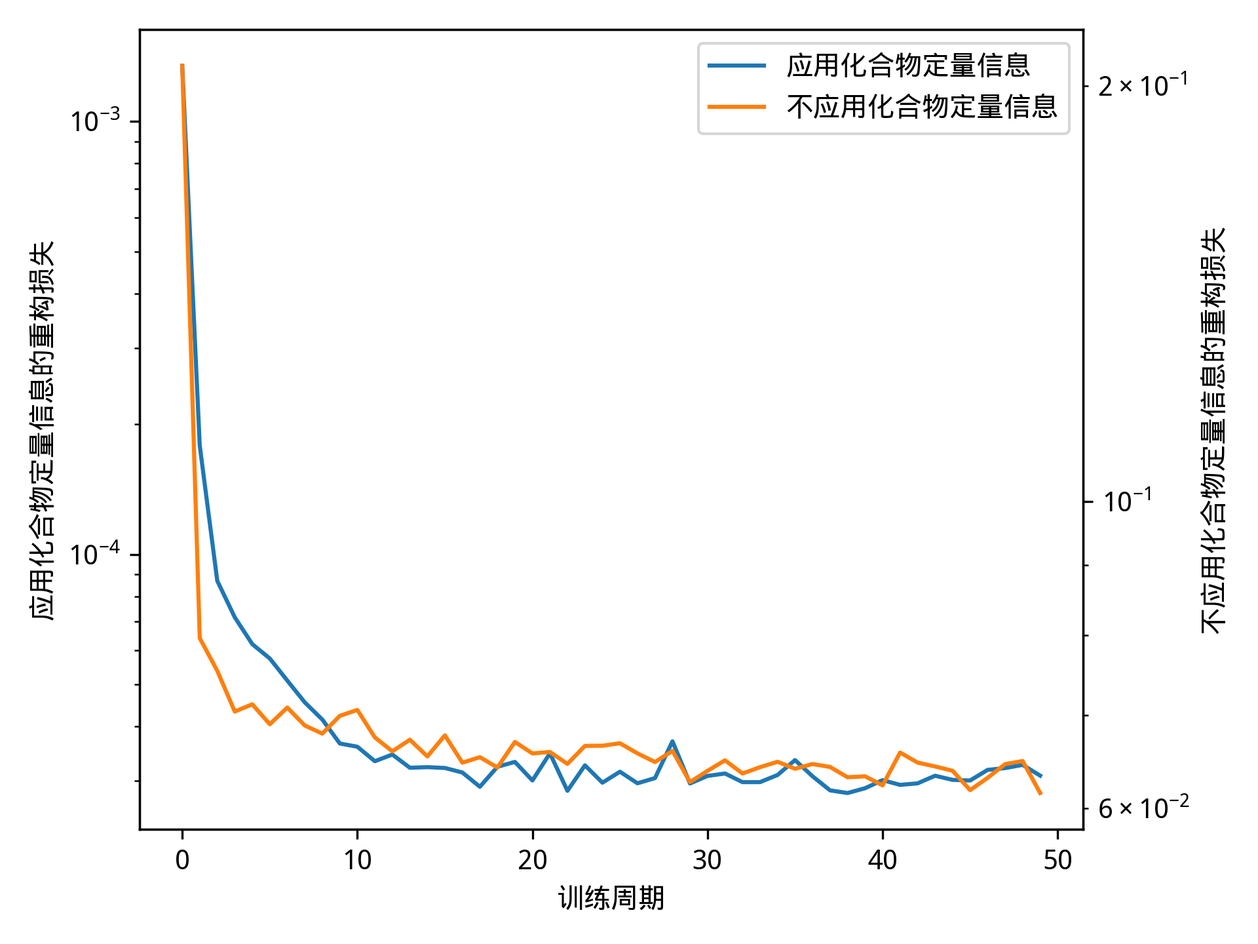
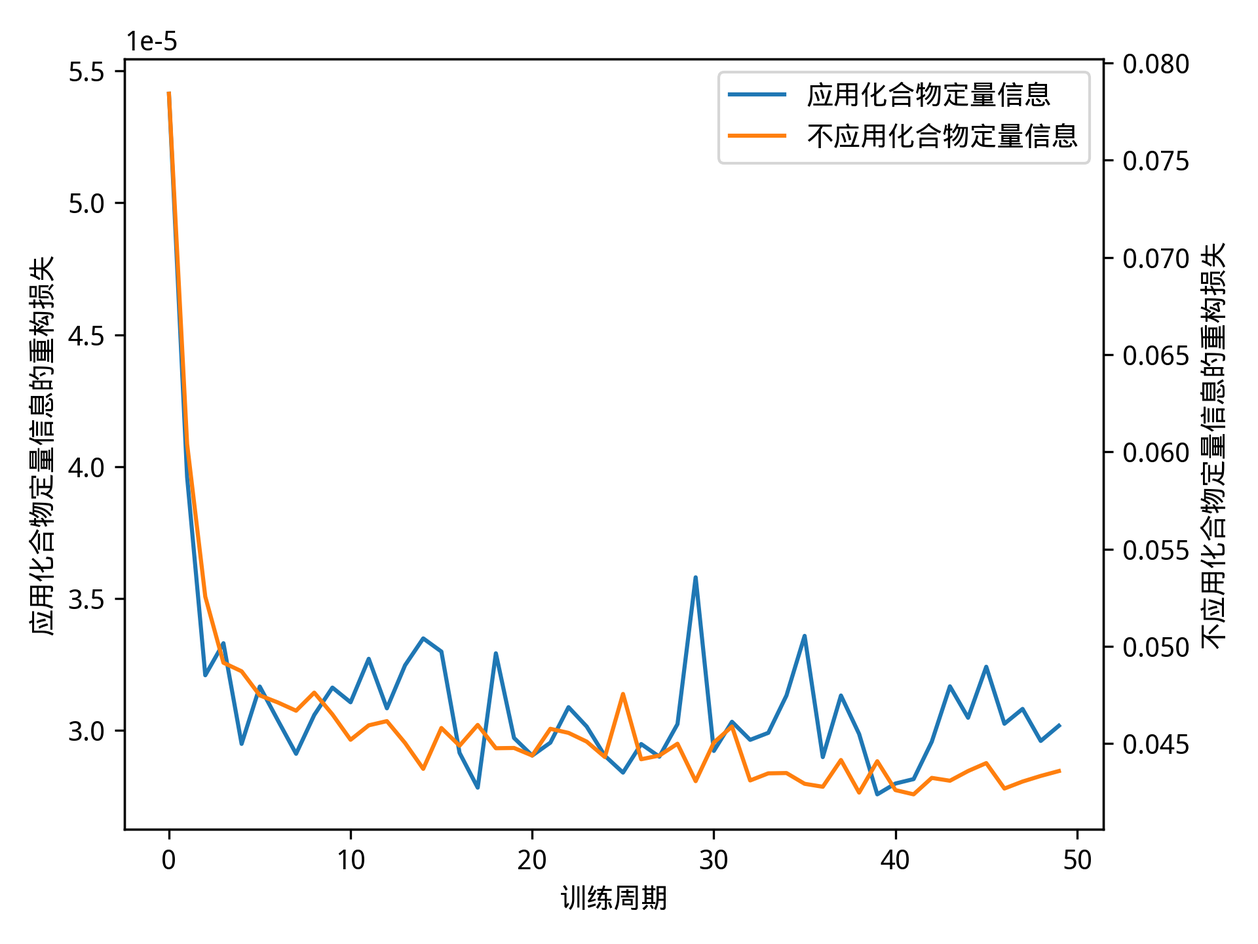
after wby review

diff --git a/data/chap03.tex b/data/chap03.tex
@@ -72,9 +72,11 @@
 
 \section{使用图神经网络的处方效果预测}
 
-如果从处方层面考虑问题，我们可以作出这样的假设：各基因受处方整体的作用等于处方中各药材影响的代数和，来自不同药材或不同化合物的基因影响在混同后是完全等价的。在这种假设下，我们可以直接遍历处方中的每个药材求和，得到每个基因的总表达影响，这样就把一个处方建模成了一系列以基因作为顶点，从化合物含量信息推出的总表达影响为点权重，基因之间的关联为边，STRING分数为边权重的图。利用图神经网络的方法，我们便可以训练模型对处方的效果进行预测，其中设《中国药典》中已经存在的处方为正例，而随机生成的、大概率不会有现实药理作用的处方为负例，便形成了一个通过图特征进行二分类的问题。这事实上是一个正无标签学习问题，我们没有确信的负例，即通过实验验证不存在任何正向药理作用的处方。这种情况下，由于正例是固定的，数量上非常有限，而负例可以通过从药材列表中任意选择，随机赋予定量，几乎无限地生成。相比于构造平衡的处方数据集，如果采样更多负例，即虚拟处方来训练，可能更有利于发现正例特有的特征。但是，这也会使得原有的准确率、召回率无法直接反映处方判别模型性能，需要使用采样、加权的方法克服这些问题。在本研究中，我们采用的是构建均衡样本的方法，但是模型实际调优时依然可以使用不均衡的策略。
+如果从处方层面考虑问题，我们可以作出这样的假设：各基因受处方整体的作用等于处方中各药材影响的代数和，来自不同药材或不同化合物的基因影响在混同后是完全等价的。在这种假设下，我们可以直接遍历处方中的每个药材求和，得到每个基因的总表达影响，这样就把一个处方建模成了一系列以基因作为顶点，从化合物含量信息推出的总表达影响为点权重，基因之间的关联为边，STRING分数为边权重的图。
 
-在实际的训练和预测过程中，图的节点数，即处方中的药材数，会显著影响连接密度和图表示，是重要的特征，但有效处方的实际大小存在显著的区别，其中大小在8及以下的处方出现的频次较多。这一方面和指导处方配伍的中医传统理论有关，另一方面也可能是因为药材的定量信息不足，越大的处方越容易出现缺少药材定量而无法入选有效处方的情况。具体的分布如下：
+然后，利用图神经网络的方法，我们便可以训练模型对处方的效果进行预测，其中设《中国药典》中已经存在的处方为正例，而随机生成的、大概率不会有现实药理作用的处方为负例，便形成了一个通过图特征进行二分类的问题。这事实上是一个正无标签学习问题，我们没有确信的负例，即通过实验验证不存在任何正向药理作用的处方。这种情况下，由于正例是固定的，数量上非常有限，而负例可以通过从药材列表中任意选择，随机赋予定量，几乎无限地生成。相比于构造平衡的处方数据集，如果采样更多负例，即虚拟处方来训练，可能更有利于发现正例特有的特征。但是，这也会使得原有的准确率、召回率无法直接反映处方判别模型性能，需要使用采样、加权的方法克服这些问题。在本研究中，我们采用的是构建均衡样本的方法，但是模型实际调优时依然可以使用不均衡的策略。
+
+在实际的训练和预测过程中，图的节点数，即处方中的药材数，会显著影响连接密度和图表示，是重要的特征，但有效处方的实际大小存在显著的区别，其中大小在8及以下的处方出现的频次较多。这一方面和指导处方配伍的中医传统理论有关，另一方面一个显著的影响因素是药材的定量信息不足，越大的处方越容易出现缺少药材定量而无法入选有效处方的情况。对比不考虑处方完整性的原始处方大小，我们可以发现其中不乏大于20味药材的处方，而不是到16即止，但这些都无法在现有的数据下得到体现。完整、可利用处方具体的大小分布如下：
 
 % 此处存在较多留白，需要补充
 
@@ -136,19 +138,19 @@
 \begin{table}[H]
   \centering
   \resizebox{\textwidth}{!}{%
-    \begin{tabular}{lcccccccccc}
+    \begin{tabular}{lccccccccccc}
       \toprule
-      \multirow{2}{*}{模型} & \multirow{2}{*}{准确率} & \multicolumn{3}{c}{正例} & \multicolumn{3}{c}{负例} & \multicolumn{3}{c}{加权平均}                                           \\
-                          &                      & 精确率                    & 召回率                    & F1                       & 精确率  & 召回率  & F1   & 精确率  & 召回率  & F1   \\
+      \multirow{2}{*}{模型} & \multirow{2}{*}{准确率} & \multirow{2}{*}{AUC} & \multicolumn{3}{c}{正例} & \multicolumn{3}{c}{负例} & \multicolumn{3}{c}{加权平均}                                           \\
+                          &                      &                      & 精确率                     & 召回率                     & F1                        & 精确率  & 召回率  & F1   & 精确率  & 召回率  & F1   \\
       \midrule
-      逻辑回归                & 0.537                & 0.52                   & 0.76                   & 0.62                     & 0.58 & 0.32 & 0.41 & 0.55 & 0.54 & 0.51 \\
-      支持向量机               & 0.549                & 0.53                   & 0.90                   & 0.66                     & 0.68 & 0.21 & 0.32 & 0.60 & 0.55 & 0.49 \\
-      随机森林                & 0.685                & 0.66                   & 0.76                   & 0.71                     & 0.72 & 0.61 & 0.66 & 0.69 & 0.69 & 0.68 \\
-      梯度提升                & 0.654                & 0.62                   & 0.75                   & 0.68                     & 0.70 & 0.56 & 0.62 & 0.66 & 0.65 & 0.65 \\
-      AdaBoost            & 0.537                & 0.53                   & 0.55                   & 0.54                     & 0.54 & 0.52 & 0.53 & 0.54 & 0.54 & 0.54 \\
-      多层感知机               & 0.512                & 0.50                   & 0.70                   & 0.59                     & 0.53 & 0.33 & 0.41 & 0.52 & 0.51 & 0.50 \\
-      朴素贝叶斯               & 0.519                & 0.51                   & 0.94                   & 0.66                     & 0.64 & 0.11 & 0.19 & 0.58 & 0.52 & 0.42 \\
-      K近邻                 & 0.593                & 0.59                   & 0.60                   & 0.59                     & 0.60 & 0.59 & 0.59 & 0.59 & 0.59 & 0.59 \\
+      逻辑回归                & 0.568                & 0.600                & 0.55                    & 0.75                    & 0.63                      & 0.62 & 0.39 & 0.48 & 0.58 & 0.57 & 0.55 \\
+      支持向量机               & 0.562                & 0.371                & 0.53                    & 0.91                    & 0.67                      & 0.72 & 0.22 & 0.34 & 0.63 & 0.56 & 0.50 \\
+      随机森林                & 0.716                & 0.725                & 0.69                    & 0.78                    & 0.73                      & 0.75 & 0.66 & 0.70 & 0.72 & 0.72 & 0.72 \\
+      梯度提升                & 0.654                & 0.710                & 0.65                    & 0.64                    & 0.65                      & 0.65 & 0.67 & 0.66 & 0.65 & 0.65 & 0.65 \\
+      AdaBoost            & 0.586                & 0.585                & 0.63                    & 0.40                    & 0.49                      & 0.57 & 0.77 & 0.65 & 0.60 & 0.58 & 0.57 \\
+      多层感知机               & 0.531                & 0.511                & 0.51                    & 0.89                    & 0.65                      & 0.62 & 0.18 & 0.28 & 0.57 & 0.54 & 0.47 \\
+      朴素贝叶斯               & 0.494                & 0.529                & 0.49                    & 0.94                    & 0.65                      & 0.50 & 0.06 & 0.11 & 0.50 & 0.50 & 0.38 \\
+      K近邻                 & 0.617                & 0.636                & 0.60                    & 0.65                    & 0.63                      & 0.63 & 0.59 & 0.61 & 0.62 & 0.62 & 0.62 \\
       \bottomrule
     \end{tabular}
   }
@@ -156,7 +158,7 @@
   \label{tab:performance_comparison}
 \end{table}
 
-可以看出，在参与比较的分类器中，随机森林取得了最高的准确率和加权平均F1分数，达到了0.685和0.69，显示出了较强的分类能力。使用这个模型，我们将可能区分一个新处方是否具有与成方相似的底层特征，从而对其有效性进行一定推断。为了判断化合物含量是否有助于提升模型预测准确率，我们在代码中进行相对应的修改，不再使用权重信息，即将每个关联边的点权重都设置为1。由于节点权重的数量级不同，在50个训练周期后，自编码器的损失函数收敛到 $0.06$ 左右。可以作出两组的训练曲线。
+可以看出，在参与比较的分类器中，随机森林取得了最高的准确率、AUC和加权平均F1分数，分别达到了0.716，0.725和0.72，显示出了较强的分类能力。使用这个模型，我们将可能区分一个新处方是否具有与成方相似的底层特征，从而对其有效性进行一定推断。为了判断化合物含量是否有助于提升模型预测准确率，我们在代码中进行相对应的修改，不再使用权重信息，即将每个关联边的点权重都设置为1。由于节点权重的数量级不同，在50个训练周期后，自编码器的损失函数收敛到 $0.04$ 左右。可以作出两组的训练曲线。
 
 \begin{figure}[htbp]
   \centering
@@ -165,24 +167,24 @@
   \label{fig:ae_train_curve}
 \end{figure}
 
-可以看到，虽然具体的数值无法直接比较，但是使用化合物信息在自编码器上训练将损失降低了将近两个数量级，而不使用时仅下降到原来的三分之一左右，这可能说明两者学习到特征表示的程度有较大的区别，使用化合物信息的自编码器更好地学习到了处方的特征表示。然后，我们在无化合物含量信息的模型上同样使用各种分类器进行预测，得到相应的预测效果。
+可以看到，虽然具体的数值无法直接比较，但两组均达成了收敛。然后，我们在无化合物含量信息的模型上同样使用各种分类器进行预测，得到相应的预测效果。
 
 \begin{table}[H]
   \centering
   \resizebox{\textwidth}{!}{%
-    \begin{tabular}{lcccccccccc}
+    \begin{tabular}{lccccccccccc}
       \toprule
-      \multirow{2}{*}{模型} & \multirow{2}{*}{准确率} & \multicolumn{3}{c}{正例} & \multicolumn{3}{c}{负例} & \multicolumn{3}{c}{加权平均}                                           \\
-                          &                      & 精确率                    & 召回率                    & F1                       & 精确率  & 召回率  & F1   & 精确率  & 召回率  & F1   \\
+      \multirow{2}{*}{模型} & \multirow{2}{*}{准确率} & \multirow{2}{*}{AUC} & \multicolumn{3}{c}{正例} & \multicolumn{3}{c}{负例} & \multicolumn{3}{c}{加权平均}                                           \\
+                          &                      &                      & 精确率                     & 召回率                     & F1                        & 精确率  & 召回率  & F1   & 精确率  & 召回率  & F1   \\
       \midrule
-      逻辑回归                & 0.432                & 0.41                   & 0.34                   & 0.37                     & 0.45 & 0.52 & 0.48 & 0.43 & 0.43 & 0.43 \\
-      支持向量机               & 0.512                & 0.51                   & 0.50                   & 0.50                     & 0.52 & 0.52 & 0.52 & 0.51 & 0.51 & 0.51 \\
-      随机森林                & 0.642                & 0.61                   & 0.76                   & 0.68                     & 0.69 & 0.52 & 0.60 & 0.65 & 0.64 & 0.64 \\
-      梯度提升                & 0.580                & 0.56                   & 0.72                   & 0.63                     & 0.62 & 0.44 & 0.51 & 0.59 & 0.58 & 0.57 \\
-      AdaBoost            & 0.506                & 0.50                   & 0.62                   & 0.56                     & 0.52 & 0.39 & 0.44 & 0.51 & 0.51 & 0.50 \\
-      多层感知机               & 0.481                & 0.48                   & 0.57                   & 0.52                     & 0.48 & 0.39 & 0.43 & 0.48 & 0.48 & 0.48 \\
-      朴素贝叶斯               & 0.451                & 0.43                   & 0.33                   & 0.37                     & 0.47 & 0.57 & 0.51 & 0.45 & 0.45 & 0.44 \\
-      K近邻                 & 0.512                & 0.51                   & 0.62                   & 0.56                     & 0.52 & 0.40 & 0.46 & 0.51 & 0.51 & 0.51 \\
+      逻辑回归                & 0.457                & 0.436                & 0.00                    & 0.00                    & 0.00                      & 0.46 & 0.98 & 0.63 & 0.21 & 0.46 & 0.29 \\
+      支持向量机               & 0.457                & 0.439                & 0.49                    & 0.34                    & 0.40                      & 0.44 & 0.59 & 0.50 & 0.47 & 0.46 & 0.45 \\
+      随机森林                & 0.638                & 0.618                & 0.66                    & 0.66                    & 0.66                      & 0.61 & 0.61 & 0.61 & 0.64 & 0.64 & 0.64 \\
+      梯度提升                & 0.572                & 0.579                & 0.59                    & 0.65                    & 0.62                      & 0.54 & 0.48 & 0.51 & 0.57 & 0.57 & 0.57 \\
+      AdaBoost            & 0.486                & 0.503                & 0.52                    & 0.47                    & 0.50                      & 0.45 & 0.50 & 0.47 & 0.49 & 0.49 & 0.49 \\
+      多层感知机               & 0.486                & 0.453                & 0.53                    & 0.38                    & 0.44                      & 0.46 & 0.61 & 0.52 & 0.50 & 0.49 & 0.48 \\
+      朴素贝叶斯               & 0.449                & 0.450                & 0.49                    & 0.53                    & 0.51                      & 0.40 & 0.36 & 0.38 & 0.45 & 0.45 & 0.45 \\
+      K近邻                 & 0.522                & 0.549                & 0.56                    & 0.54                    & 0.55                      & 0.48 & 0.50 & 0.49 & 0.52 & 0.52 & 0.52 \\
       \bottomrule
     \end{tabular}
   }
@@ -197,19 +199,19 @@
 \begin{table}[htbp]
   \centering
   \resizebox{\textwidth}{!}{%
-    \begin{tabular}{lcccccccccc}
+    \begin{tabular}{lccccccccccc}
       \toprule
-      \multirow{2}{*}{模型} & \multirow{2}{*}{准确率} & \multicolumn{3}{c|}{正例} & \multicolumn{3}{c|}{负例} & \multicolumn{3}{c|}{加权平均}                                           \\
-                          &                      & 精确率                     & 召回率                     & F1                        & 精确率  & 召回率  & F1   & 精确率  & 召回率  & F1   \\
+      \multirow{2}{*}{模型} & \multirow{2}{*}{准确率} & \multirow{2}{*}{AUC} & \multicolumn{3}{c}{正例} & \multicolumn{3}{c}{负例} & \multicolumn{3}{c}{加权平均}                                           \\
+                          &                      &                      & 精确率                     & 召回率                     & F1                        & 精确率  & 召回率  & F1   & 精确率  & 召回率  & F1   \\
       \midrule
-      逻辑回归                & 0.529                & 0.57                    & 0.53                    & 0.55                      & 0.49 & 0.53 & 0.51 & 0.53 & 0.53 & 0.53 \\
-      支持向量机               & 0.565                & 0.58                    & 0.72                    & 0.64                      & 0.54 & 0.39 & 0.45 & 0.56 & 0.57 & 0.55 \\
-      随机森林                & 0.652                & 0.69                    & 0.65                    & 0.67                      & 0.62 & 0.66 & 0.64 & 0.65 & 0.65 & 0.65 \\
-      梯度提升                & 0.645                & 0.69                    & 0.61                    & 0.65                      & 0.60 & 0.69 & 0.64 & 0.65 & 0.64 & 0.65 \\
-      AdaBoost            & 0.507                & 0.54                    & 0.50                    & 0.52                      & 0.47 & 0.52 & 0.49 & 0.51 & 0.51 & 0.51 \\
-      多层感知机               & 0.572                & 0.63                    & 0.49                    & 0.55                      & 0.53 & 0.67 & 0.59 & 0.58 & 0.57 & 0.57 \\
-      朴素贝叶斯               & 0.536                & 0.54                    & 0.92                    & 0.68                      & 0.50 & 0.09 & 0.16 & 0.52 & 0.54 & 0.44 \\
-      K近邻                 & 0.572                & 0.60                    & 0.59                    & 0.60                      & 0.54 & 0.55 & 0.54 & 0.57 & 0.57 & 0.57 \\
+      逻辑回归                & 0.522                & 0.546                & 0.53                    & 0.70                    & 0.60                      & 0.51 & 0.33 & 0.40 & 0.52 & 0.52 & 0.50 \\
+      支持向量机               & 0.457                & 0.530                & 0.43                    & 0.18                    & 0.26                      & 0.46 & 0.75 & 0.57 & 0.45 & 0.46 & 0.41 \\
+      随机森林                & 0.572                & 0.615                & 0.58                    & 0.61                    & 0.59                      & 0.56 & 0.54 & 0.55 & 0.57 & 0.57 & 0.57 \\
+      梯度提升                & 0.558                & 0.606                & 0.58                    & 0.49                    & 0.53                      & 0.54 & 0.63 & 0.58 & 0.56 & 0.56 & 0.56 \\
+      AdaBoost            & 0.543                & 0.559                & 0.59                    & 0.38                    & 0.46                      & 0.52 & 0.72 & 0.60 & 0.55 & 0.54 & 0.53 \\
+      多层感知机               & 0.486                & 0.480                & 0.50                    & 0.72                    & 0.59                      & 0.44 & 0.24 & 0.31 & 0.47 & 0.49 & 0.45 \\
+      朴素贝叶斯               & 0.514                & 0.500                & 0.52                    & 0.90                    & 0.66                      & 0.50 & 0.10 & 0.17 & 0.51 & 0.51 & 0.42 \\
+      K近邻                 & 0.493                & 0.567                & 0.51                    & 0.59                    & 0.55                      & 0.47 & 0.39 & 0.43 & 0.49 & 0.49 & 0.49 \\
       \bottomrule
     \end{tabular}
   }
@@ -217,4 +219,4 @@
   \label{tab:reduced_performance_comparison}
 \end{table}
 
-从准确率的角度而言，去除较大的处方后，支持向量机、多层感知机和朴素贝叶斯的性能在数值上有所提升，而其它分类器的性能下降。性能最高的随机森林分类器性能下降。需要注意的是，这还仅为在处方大小为8及以下的情况下的结果，而更大的真实处方还完全没有引入到评测，相应的特征是未学习的。因此，总体而言，尽管去除较大的处方可能有助于数据集的稳定性，但是在实际的预测中，这些处方可能仍然具有重要的信息，去除后会导致模型性能的下降。
+从准确率的角度而言，去除较大的处方后，分类器的也均性能下降。性能最高的随机森林分类器性能下降显著。需要注意的是，这还仅为在处方大小为8及以下的情况下的结果，而更大的真实处方还完全没有引入到评测，相应的特征是未学习的。因此，总体而言，尽管去除较大的处方可能有助于数据集的稳定性，但是在实际的预测中，这些处方可能仍然具有重要的信息，去除后会导致模型性能的下降。

diff --git a/data/chap04.tex b/data/chap04.tex
@@ -4,8 +4,10 @@
 
 \section{总结}
 
-本研究的工作主要可以归结为数据收集和建模分析两个部分。其中，在数据收集方面，主要对《中国药典》、ccTCM项目原始数据、STRING蛋白互作数据库中和中药化合物有关的基因及其表达关联进行了获取和整理，不仅用于项目本身，也为后续应用其他分析方法提供了基础；在建模分析方面，我们尝试了对药材配对直接进行作图比较和双样本Kolmogorov-Smirnov非参数检验方法，虽然初步得出了在药材基因交互边数和分数的定量标准下，已知有效处方和随机构造的虚拟处方在总体上有显著差异，从一个侧面反映了处方的有效性可能被网络关系描述，但没有得到直接判断药材配对是否有利于形成有效处方的标准，然后我们尝试了基于图神经网络的方法，通过对药材配对的图结构进行学习，得到了一定的预测效果，对于正负例均衡的样本使用自编码器和随机森林分类器，得到最高0.685的准确率，0.68的加权平均F1分数。但是，由于数据量和模型复杂性的限制，预测准确率仍有待进一步提高。
+本研究的工作主要可以归结为数据收集和建模分析两个部分。其中，在数据收集方面，主要对《中国药典》、ccTCM项目原始数据、STRING蛋白互作数据库中和中药化合物有关的基因及其表达关联进行了获取和整理，不仅用于项目本身，也为后续应用其他分析方法提供了基础，如《中国药典》的格式化文本可用于提取中药处方标准各方面的信息；在建模分析方面，我们尝试了对药材配对直接进行作图比较和双样本Kolmogorov-Smirnov非参数检验方法，虽然初步得出了在药材基因交互边数和分数的定量标准下，已知有效处方和随机构造的虚拟处方在总体上有显著差异，从一个侧面反映了处方的有效性可能被网络关系描述，但没有得到直接判断药材配对是否有利于形成有效处方的标准，然后我们尝试了基于图神经网络的方法，通过对药材配对的图结构进行学习，得到了一定的预测效果，对于正负例均衡的样本使用自编码器和随机森林分类器，得到最高0.716的准确率，0.725的AUC和0.72的加权平均F1分数，并验证了使用化合物定量信息可以提高模型训练的有效性，普遍提升预测性能指标，说明在中药处方评估和靶点预测问题中应用定量信息是有帮助的。但是，由于数据量和模型复杂性的限制，预测准确率仍有待进一步提高。
 
 \section{展望}
 
-在未来的工作中，继续对中药处方、药材化合物含量、化合物对基因表达的影响、基因间的交互作用进行定量收集和测定将是有价值的工作，可为中药处方有效性预测的任务提供更多的数据支持，提高预测能力和可靠性。同时，我们也可以尝试更多的深度学习方法来进行更加符合数据特点的建模。在这些定量信息中，现阶段仍广泛缺失、亟待补充的是化合物对基因表达的影响，或即剂量-效应关系。找到足够规范、统一、可利用的数据表示方法将可能极大地提高从中药处方到基因互作网络关联关系的严谨性。除此之外，适当地引入更多的先验知识，如中药药理学、中药方剂学，以及现代药理学、药效学等领域的知识，将有助于提高模型的可解释性，构成一个更加完整的中药处方有效性预测框架。
+现阶段，《中国药典》中部分处方定量信息并没有具体提供，或者形式上不够直观可用；ccTCM等中药化合物定量数据库不够完善，对常见的药材也有相当的缺失：这使得我们最终得到的有效正例处方数量相比《中国药典》的收录量较低，限制了模型的学习范围。在未来的工作中，继续对中药处方、药材化合物含量、化合物对基因表达的影响、基因间的交互作用进行定量收集和测定将是有价值的工作，可为中药处方有效性预测的任务提供更多的数据支持，提高预测能力和可靠性。在这些定量信息中，现阶段仍广泛缺失、亟待补充的是化合物对基因表达的影响，或即剂量-效应关系。找到足够规范、统一、可利用的数据表示方法将可能极大地提高从中药处方到基因互作网络关联关系的严谨性。在现有的数据库因为存在大量缺失和较为混乱的量纲而难以使用的状况下，我们希望建立更加标准化的数据记录格式，实现记录数据和缺失数据在同一模型中联合使用的算法，以便于后续的数据整合和分析。
+
+同时，我们也可以尝试更多的深度学习方法或技巧来进行更加符合数据特点的建模。除此之外，适当地引入更多的先验知识，如中药药理学、中药方剂学，以及现代药理学、药效学等领域的知识，将有助于提高模型的可解释性，构成一个更加完整的中药处方有效性预测框架。如果进行充分的调优，达到可接受的预测性能，我们可以尝试使用这个框架来预测新的中药处方的有效性，并在此基础上对处方的基因关联图再进行节点重要性分析，找到其中的关键基因，为中药药效研究提供更多的线索。

diff --git a/data/denotation.tex b/data/denotation.tex
@@ -1,6 +1,7 @@
 % !TeX root = ../thuthesis-example.tex
 
 \begin{denotation}[3cm]
+  \item[AdaBoost]{自适应提升算法（Adaptive Boosting）}
   \item[API]{应用程序接口（Application Programming Interface）}
   \item[BERT]{双向编码器表示变换器（Bidirectional Encoder Representations from Transformers）}
   \item[ccTCM]{成分与化合物中药数据库（Component and Compound platform for Traditional Chinese Medicine）}
@@ -12,8 +13,8 @@
   \item[drugCIPHER-MS]{基于蛋白质网络的靶点预测回归模型定义的药物相似性}
   \item[GCN]{图卷积网络（Graph Convolutional Network）}
   \item[GNN]{图神经网络（Graph Neural Network）}
-  \item[HTML]{超文本标记语言（HyperText Markup Language）}
   \item[GPT]{生成式预训练模型（Generative Pre-trained Transformer）}
+  \item[HTML]{超文本标记语言（HyperText Markup Language）}
   \item[LSTM]{长短时记忆网络（Long Short-Term Memory）}
   \item[NCBI Gene ID]{美国国家生物技术信息中心基因标识符（National Center for Biotechnology Information Gene Identifier）}
   \item[p值]{统计显著性水平}
@@ -26,8 +27,6 @@
   \item[TS]{治疗相似性（Therapeutic Similarity）}
   \item[UniProt ID]{通用蛋白质标识符（Universal Protein Resource Identifier）}
 \end{denotation}
-
-
 
 % 也可以使用 nomencl 宏包，需要在导言区
 % \usepackage{nomencl}
